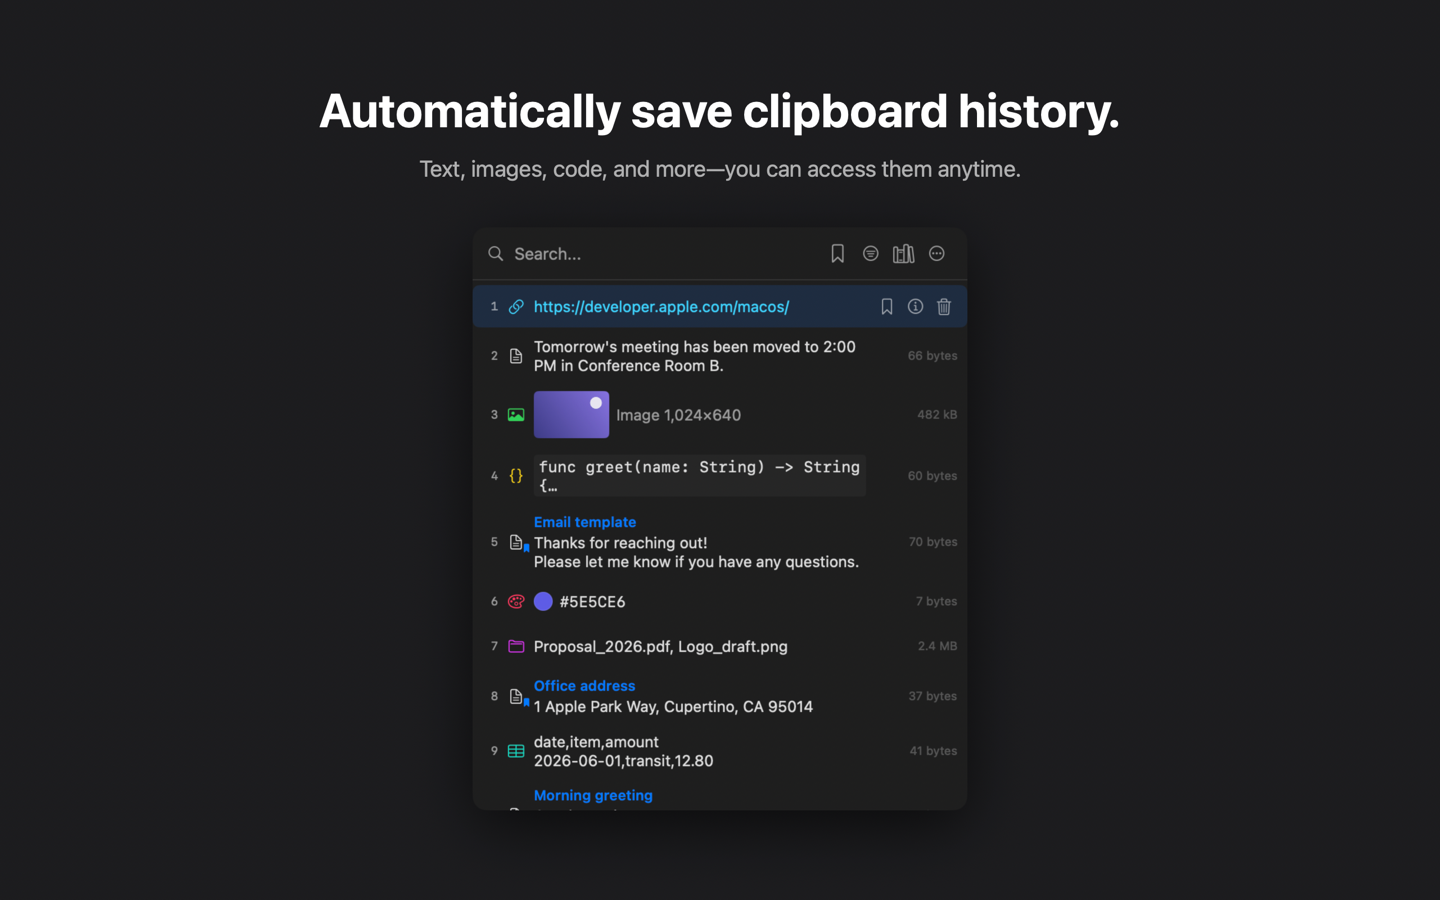
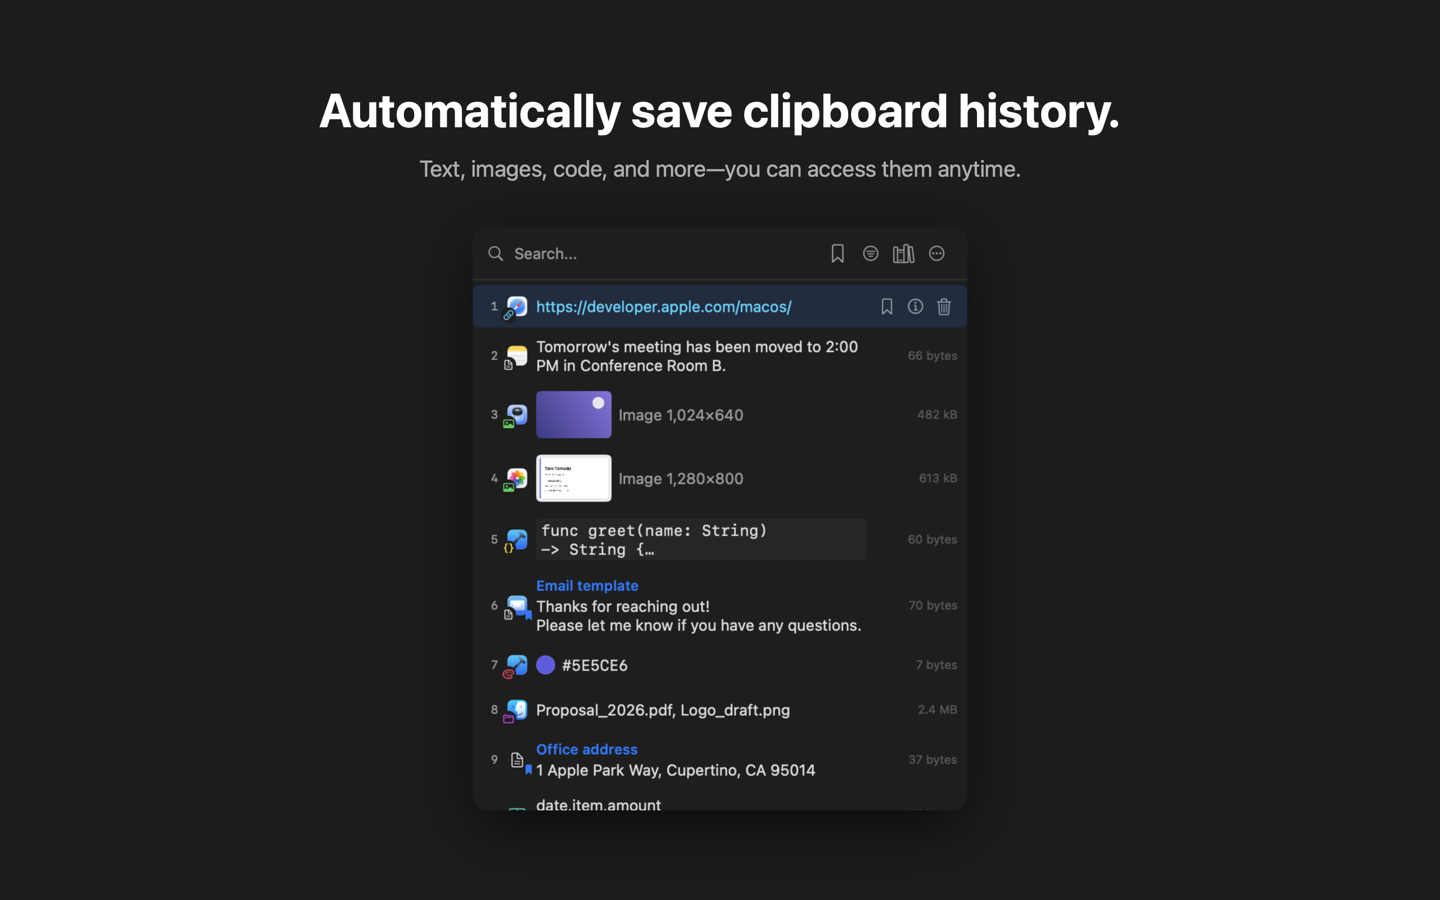
デモデータにコピー元アプリを設定し、マーケティング用スクショを再生成
- DemoData の item ヘルパーに source 引数を追加し、履歴アイテムに
  Safari/メモ/プレビュー/写真/Xcode/メール/Finder 等のコピー元を割り当て
  （定型文系の一部はソース無しのまま＝実際の混在を再現）
- これにより静止画スクショに Mission Control 風のアプリアイコンと
  コレクション詳細の「コピー元」が表示されるようになった
- docs/（LP用）と fastlane/screenshots/（App Store用）を再生成

※ App Store プレビュー動画の再録画は別途手動で行う

diff --git a/Clipnyx/Clipnyx/DemoData.swift b/Clipnyx/Clipnyx/DemoData.swift
@@ -31,7 +31,8 @@ enum DemoData {
             thumbnail: Data? = nil,
             favorite: String? = nil,
             folder: FavoriteFolder? = nil,
-            recognized: String? = nil
+            recognized: String? = nil,
+            source: String? = nil
         ) -> ClipboardItem {
             order += 1
             let id = UUID()
@@ -54,7 +55,8 @@ enum DemoData {
                 isSaved: favorite != nil,
                 favoriteName: favorite,
                 favoriteFolderId: folder?.id,
-                recognizedText: recognized
+                recognizedText: recognized,
+                sourceBundleId: source
             )
         }
 
@@ -65,18 +67,19 @@ enum DemoData {
             emailTemplate = item(
                 .plainText,
                 "お世話になっております。澤田です。\nご確認のほどよろしくお願いいたします。",
-                favorite: "メールの定型文", folder: templates
+                favorite: "メールの定型文", folder: templates, source: "com.apple.mail"
             )
             items = [
-                item(.url, "https://developer.apple.com/jp/macos/"),
-                item(.plainText, "明日の打ち合わせは 14:00 から、3F 会議室 B に変更になりました。"),
-                item(.image, "画像 1,024×640", size: 482_304, thumbnail: thumbnail()),
+                item(.url, "https://developer.apple.com/jp/macos/", source: "com.apple.Safari"),
+                item(.plainText, "明日の打ち合わせは 14:00 から、3F 会議室 B に変更になりました。", source: "com.apple.Notes"),
+                item(.image, "画像 1,024×640", size: 482_304, thumbnail: thumbnail(), source: "com.apple.Preview"),
                 item(.image, "画像 1,280×800", size: 612_800, thumbnail: cardImage(japanese: true),
-                     recognized: "山田 太郎\nプロダクトデザイナー\nHimatsubu Inc.\nTEL 03-1234-5678\nyamada@example.com"),
-                item(.sourceCode, "func greet(name: String) -> String {\n    \"こんにちは、\\(name)さん！\"\n}"),
+                     recognized: "山田 太郎\nプロダクトデザイナー\nHimatsubu Inc.\nTEL 03-1234-5678\nyamada@example.com",
+                     source: "com.apple.Photos"),
+                item(.sourceCode, "func greet(name: String) -> String {\n    \"こんにちは、\\(name)さん！\"\n}", source: "com.apple.dt.Xcode"),
                 emailTemplate,
-                item(.color, "#5E5CE6"),
-                item(.fileURL, "企画書_2026.pdf, ロゴ案.png", size: 2_412_544),
+                item(.color, "#5E5CE6", source: "com.apple.dt.Xcode"),
+                item(.fileURL, "企画書_2026.pdf, ロゴ案.png", size: 2_412_544, source: "com.apple.finder"),
                 item(.plainText, "〒150-0002 東京都渋谷区渋谷 2-21-1", favorite: "会社の住所", folder: templates),
                 item(.csv, "日付,項目,金額\n2026-06-01,交通費,1280"),
                 item(.plainText, "いつもありがとうございます。\n本日もよろしくお願いいたします。", favorite: "朝の挨拶", folder: templates),
@@ -87,18 +90,19 @@ enum DemoData {
             emailTemplate = item(
                 .plainText,
                 "Thanks for reaching out!\nPlease let me know if you have any questions.",
-                favorite: "Email template", folder: templates
+                favorite: "Email template", folder: templates, source: "com.apple.mail"
             )
             items = [
-                item(.url, "https://developer.apple.com/macos/"),
-                item(.plainText, "Tomorrow's meeting has been moved to 2:00 PM in Conference Room B."),
-                item(.image, "Image 1,024×640", size: 482_304, thumbnail: thumbnail()),
+                item(.url, "https://developer.apple.com/macos/", source: "com.apple.Safari"),
+                item(.plainText, "Tomorrow's meeting has been moved to 2:00 PM in Conference Room B.", source: "com.apple.Notes"),
+                item(.image, "Image 1,024×640", size: 482_304, thumbnail: thumbnail(), source: "com.apple.Preview"),
                 item(.image, "Image 1,280×800", size: 612_800, thumbnail: cardImage(japanese: false),
-                     recognized: "Taro Yamada\nProduct Designer\nHimatsubu Inc.\nTEL +81-3-1234-5678\nyamada@example.com"),
-                item(.sourceCode, "func greet(name: String) -> String {\n    \"Hello, \\(name)!\"\n}"),
+                     recognized: "Taro Yamada\nProduct Designer\nHimatsubu Inc.\nTEL +81-3-1234-5678\nyamada@example.com",
+                     source: "com.apple.Photos"),
+                item(.sourceCode, "func greet(name: String) -> String {\n    \"Hello, \\(name)!\"\n}", source: "com.apple.dt.Xcode"),
                 emailTemplate,
-                item(.color, "#5E5CE6"),
-                item(.fileURL, "Proposal_2026.pdf, Logo_draft.png", size: 2_412_544),
+                item(.color, "#5E5CE6", source: "com.apple.dt.Xcode"),
+                item(.fileURL, "Proposal_2026.pdf, Logo_draft.png", size: 2_412_544, source: "com.apple.finder"),
                 item(.plainText, "1 Apple Park Way, Cupertino, CA 95014", favorite: "Office address", folder: templates),
                 item(.csv, "date,item,amount\n2026-06-01,transit,12.80"),
                 item(.plainText, "Good morning team!\nHope you all have a great day.", favorite: "Morning greeting", folder: templates),
